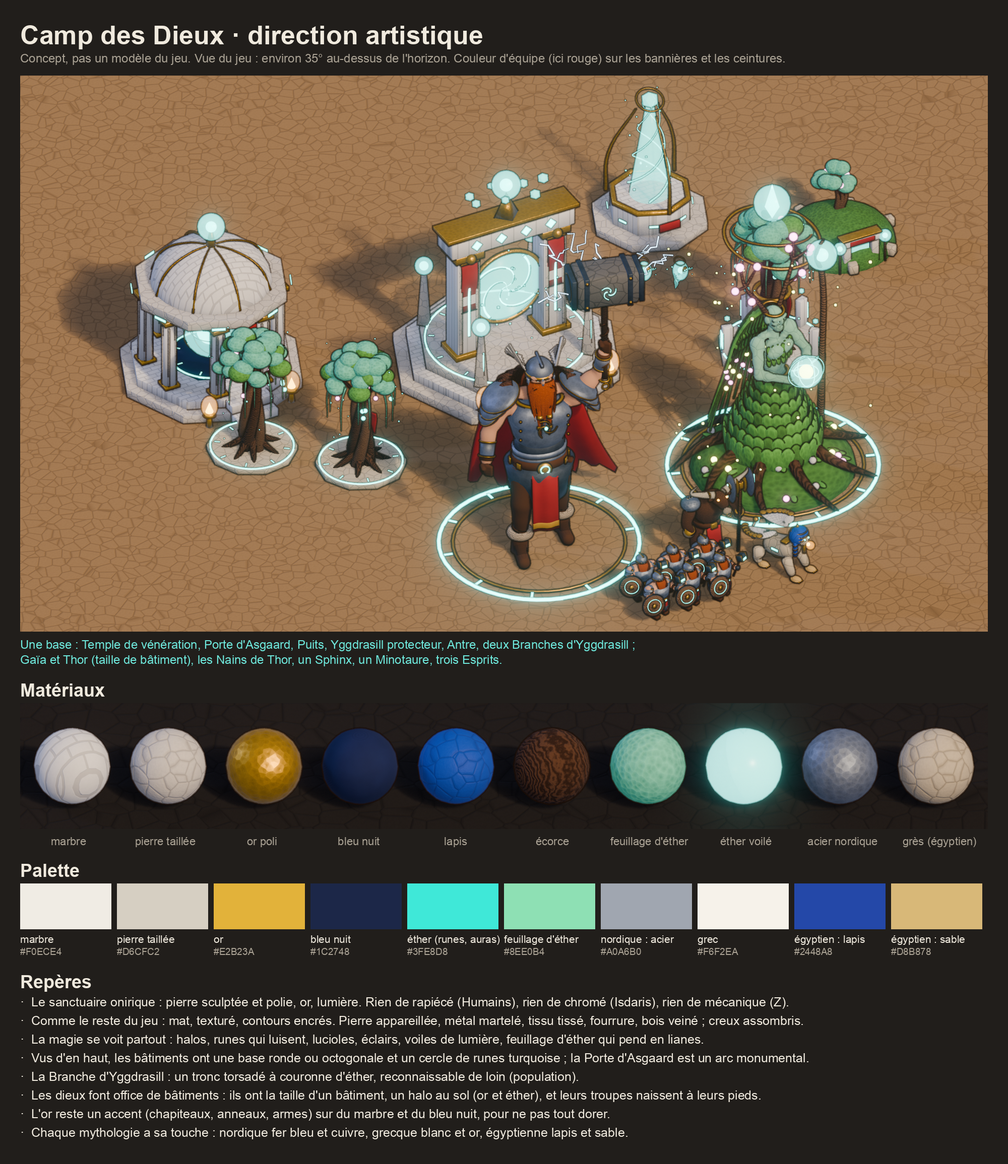
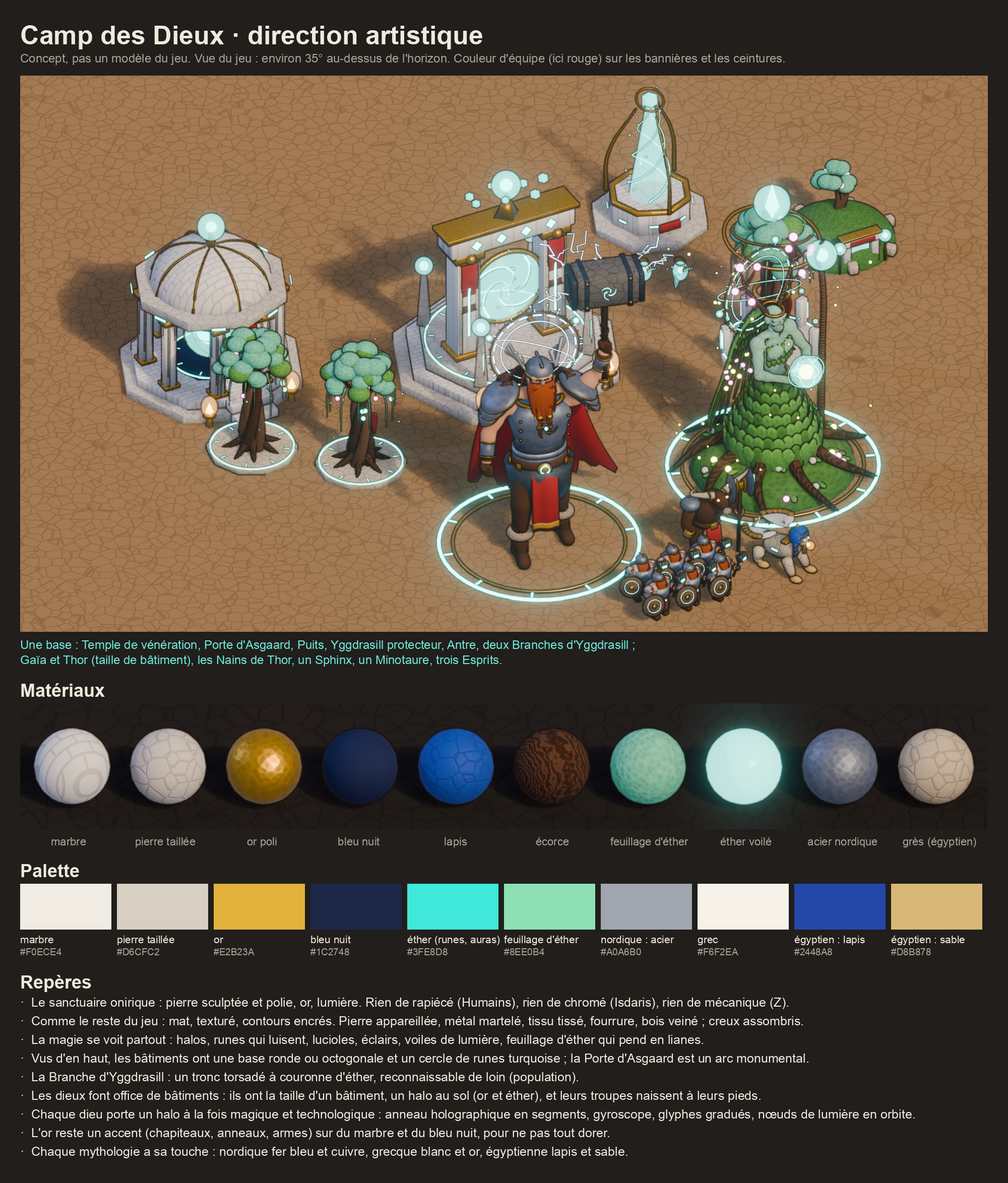
docs(dieux): each god wears a halo that is both magic and machine: a segmented holographic ring, a gold ring ticked with glyphs, a gyroscope ring and three orbiting lights, coloured by mythology; art direction approved as a first pass

diff --git a/docs/camp-dieux.md b/docs/camp-dieux.md
@@ -266,6 +266,10 @@ Planches : [`docs/concepts-dieux/planche-camp.png`](concepts-dieux/planche-camp.
 
 **Style : fantasy héroïque onirique, rendue comme le reste du jeu** : matières mates et texturées (pierre appareillée, métal martelé, tissu tissé, fourrure, bois veiné), creux assombris, contours encrés ; corps d'une seule pièce aux proportions héroïques, armures en plaques ; la magie se voit partout (halos, runes lumineuses, lucioles, éclairs, voiles de lumière, feuillage d'éther qui pend en lianes). Inspiration générale de la fantasy stylisée des RTS, sans reprendre aucun modèle ni nom existant.
 
+**Halo des dieux, entre science-fiction et fantasy** : derrière la tête de chaque dieu flotte un anneau holographique en segments, doublé d'un anneau d'or gradué de glyphes, traversé d'un anneau incliné en gyroscope, avec trois nœuds de lumière en orbite. Couleur selon la mythologie : bleu foudre (nordique), or solaire (grec), ambre (égyptien), éther (Gaïa).
+
+*Direction artistique validée comme premier jet (17 novembre 2026).*
+
 **Idée directrice : le sanctuaire.** Les Humains bricolent (ferraille, rouille), les Isdaris sont Art déco chromé, les Z sont des machines rouillées sur câbles. Les Dieux sont **de la pierre sculptée et polie, de l'or et de la lumière** : rien de rapiécé, rien de mécanique, des formes posées et symétriques.
 
 - **Matériaux** : marbre blanc veiné, pierre claire taillée, or poli (les dieux et les arêtes), bois vivant et écorce (Yggdrasill), éther translucide (Esprits, Élémentaires).
